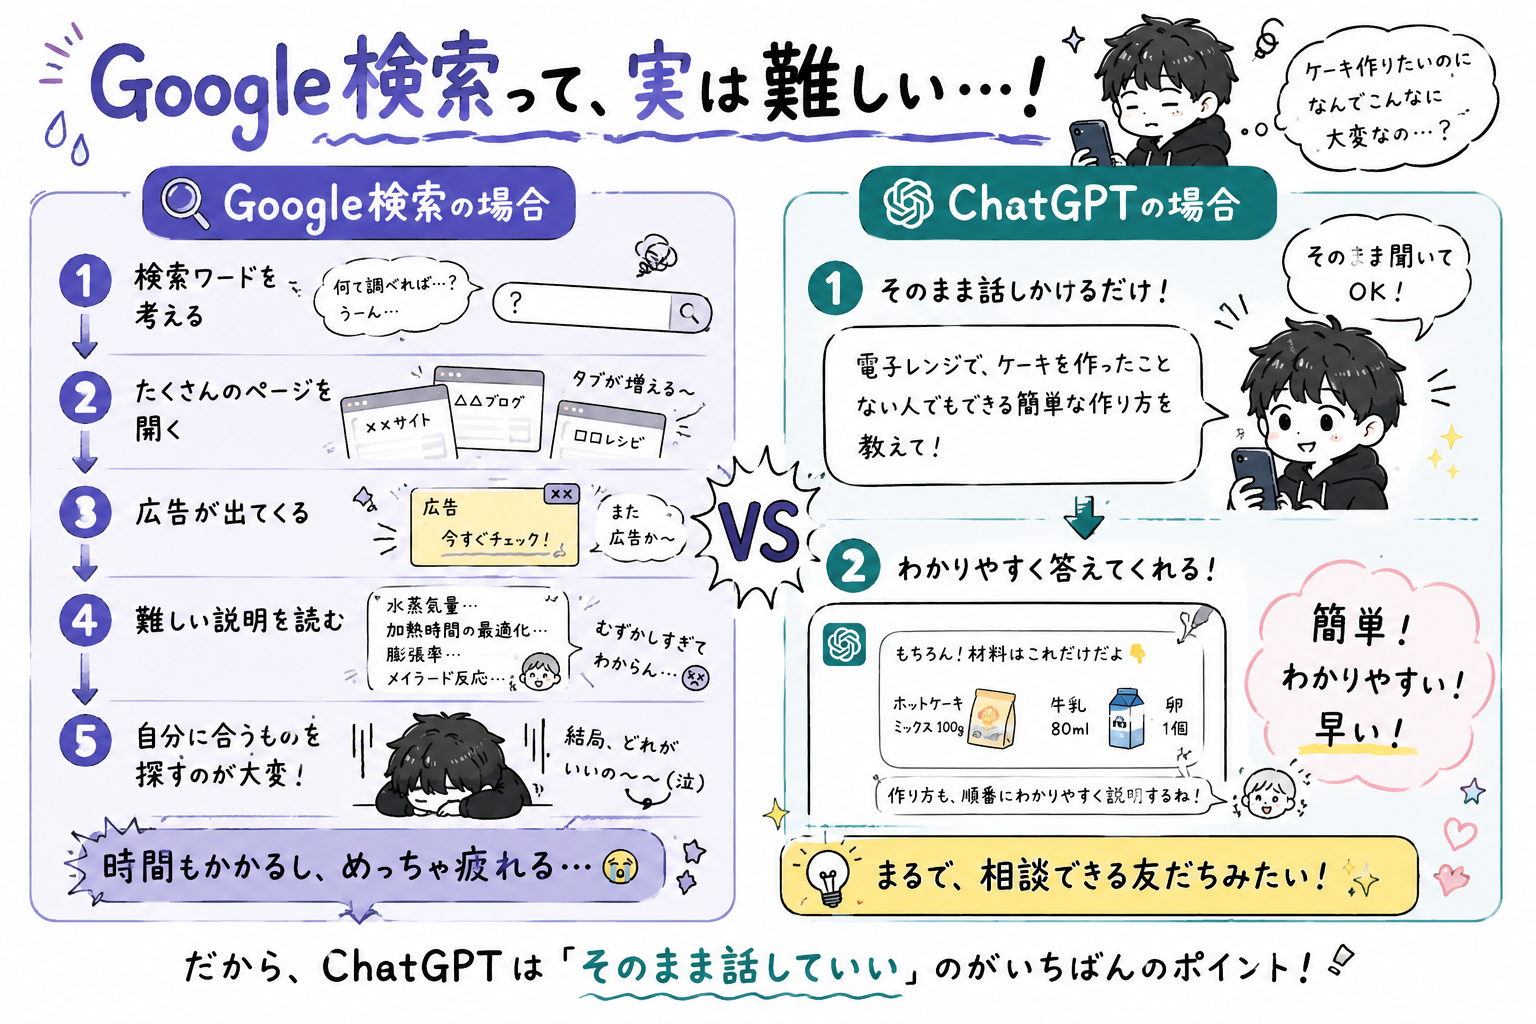
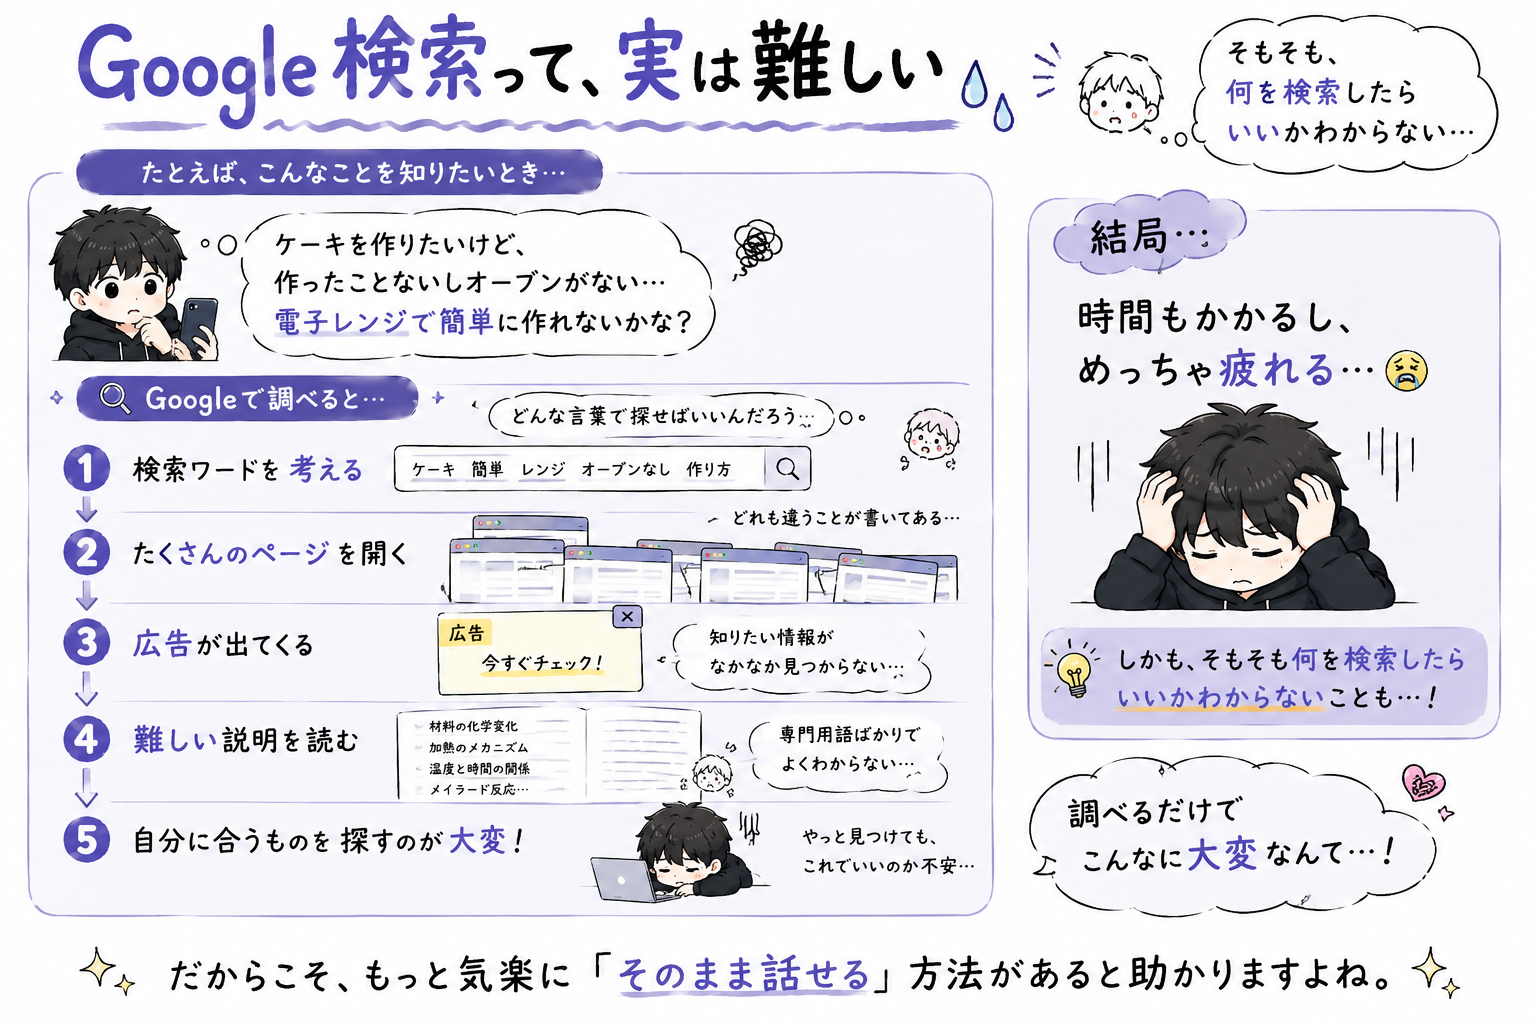
Add files via upload

diff --git a/article.md b/article.md
@@ -2,13 +2,13 @@
 
 ## 第1弾
 
-# ChatGPTと仲良くなろう
+# え、AIってこんなに簡単なの！？
 
-## 「ほら、怖くない」
+## ChatGPTと仲良くなろう
 
 ---
 
-## AIって、なんだか怖そう
+## AIって、なんか怖そう。
 
 「難しそう」
 
@@ -16,14 +16,19 @@
 
 「ちゃんと使えなかったら恥ずかしい」
 
-そんなふうに感じたこと、ありませんか？
+AIって、
+そんなイメージありませんか？
+
+私も最初は、
+なんだか“頭のいい人専用”
+みたいに感じていました。
 
 でも実は、
 ChatGPTって、
 
-“難しい言葉を知っている人だけのもの”
+“うまく質問できる人”
 
-ではありません。
+だけのものじゃありません。
 
 むしろ、
 
@@ -31,38 +36,39 @@ ChatGPTって、
 
 のためのものなんです。
 
+【diagram-01】
+
 ---
 
-## Google検索って、実は難しい
+## Google検索って、実はけっこう難しい
 
 たとえば、
 
-「ケーキを作りたいけど、作ったことないし
-オーブンがない、
-電子レンジで簡単に作れないかな？」
+「簡単なケーキを作りたい」
 
 と思ったとします。
 
-Googleで調べると、
+でもGoogle検索って、
 
-* 検索ワードを考えて
-* たくさんページを開いて
-* 広告が出て
-* 難しい説明を読んで
-* 自分に合うものを探して
+・何を検索するか考えて
+・たくさんページを開いて
+・広告を見て
+・難しい説明を読んで
+・自分に合う答えを探す
 
-…と、
-意外と大変です。
+必要があります。
 
 しかも、
 
-「そもそも何を検索したらいいかわからない」
+「そもそも、なんて検索すればいいの？」
 
-こともあります。
+って止まることもあります。
+
+【diagram-02】
 
 ---
 
-## ChatGPTは“そのまま話していい”
+## ChatGPTは、“そのまま話していい”
 
 でもChatGPTなら、
 もっと気楽です。
@@ -70,15 +76,14 @@ Googleで調べると、
 たとえば、
 
 「電子レンジで、
-ケーキを作ったことない人でも
-できる簡単な作り方を教えて」
+ケーキを作ったことない人でもできる、
+簡単な作り方を教えて」
 
 って、
 そのまま話していい。
 
-完璧な言葉じゃなくて大丈夫。
-
-検索用の単語を考えなくてもいい。
+検索用の言葉を考えなくていいし、
+完璧に説明できなくても大丈夫。
 
 まるで、
 隣にいる人に相談するみたいに、
@@ -89,29 +94,30 @@ Googleで調べると、
 ## 「小学生でもわかるように説明して」
 
 そして、
-ここで使ってほしいのが、
+ここでぜひ使ってほしいのが、
 
 「小学生でもわかるように説明して」
 
 という言葉。
 
 これ、
-ChatGPTと仲良くなるための、
+本当におすすめです。
 
-“魔法の言葉”
+ChatGPTが、
+ぐっと話しやすくなります。
 
-なんです。
+【diagram-03】
 
 ---
 
-## 魔法みたいに変わる
+## 難しい話も、やさしくなる
 
 たとえば、
 
 「電子レンジの仕組みを教えて」
 
 だけだと、
-難しくなることがあります。
+少し難しくなることがあります。
 
 でも、
 
@@ -119,14 +125,13 @@ ChatGPTと仲良くなるための、
 
 をつけるだけで、
 
-* 難しい言葉を減らして
-* やさしく
-* ゆっくり
-* 順番に
+・難しい言葉を減らして
+・やさしく
+・順番に
 
 説明してくれる。
 
-わからない時は、
+もしわからなかったら、
 
 「もっと簡単に」
 
@@ -134,6 +139,8 @@ ChatGPTと仲良くなるための、
 
 何回聞き直しても、
 怒られません。
+
+【diagram-04】
 
 ---
 
@@ -156,15 +163,15 @@ ChatGPTと仲良くなるための、
 答えてくれる。
 
 これ、
-実はすごいことなんです。
+実はかなりすごいことなんです。
 
 ---
 
-## AIは“勉強”より“会話”に近い
+## AIは、“勉強”より“会話”に近い
 
 AIって、
 
-「勉強しないと使えない」
+「ちゃんと勉強しないと使えない」
 
 と思われがちです。
 
@@ -177,11 +184,12 @@ AIって、
 だから、
 最初から完璧じゃなくていい。
 
-むしろ、
+うまく説明できなくてもいい。
 
-「うまく説明できない」
+「わからない」
 
-状態から始めて大丈夫。
+って言いながら、
+少しずつ慣れていけば大丈夫です。
 
 ---
 
@@ -201,4 +209,8 @@ ChatGPTは、
 
 ほら、怖くない。
 
----
+#ChatGPT
+#AI初心者
+#AIって何
+#中学生でもわかる
+#高校生でもわかる
